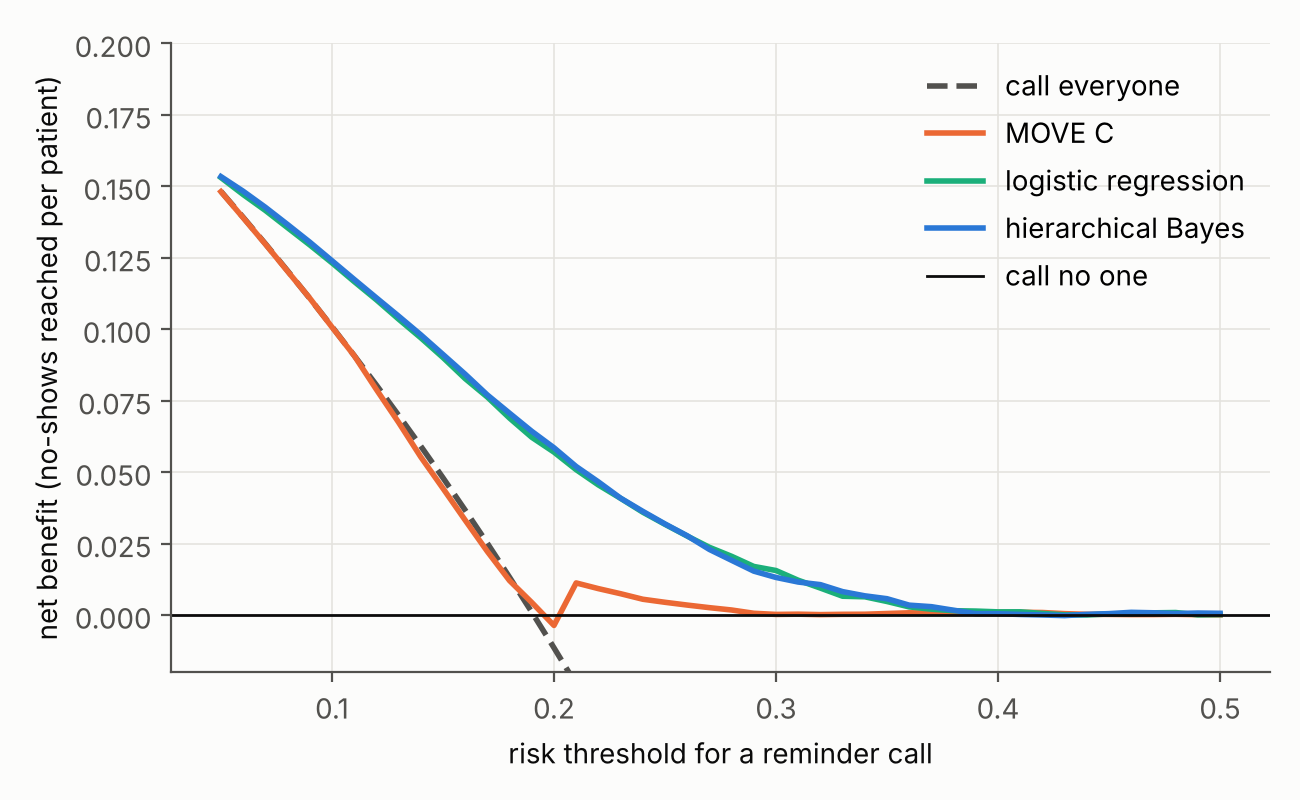
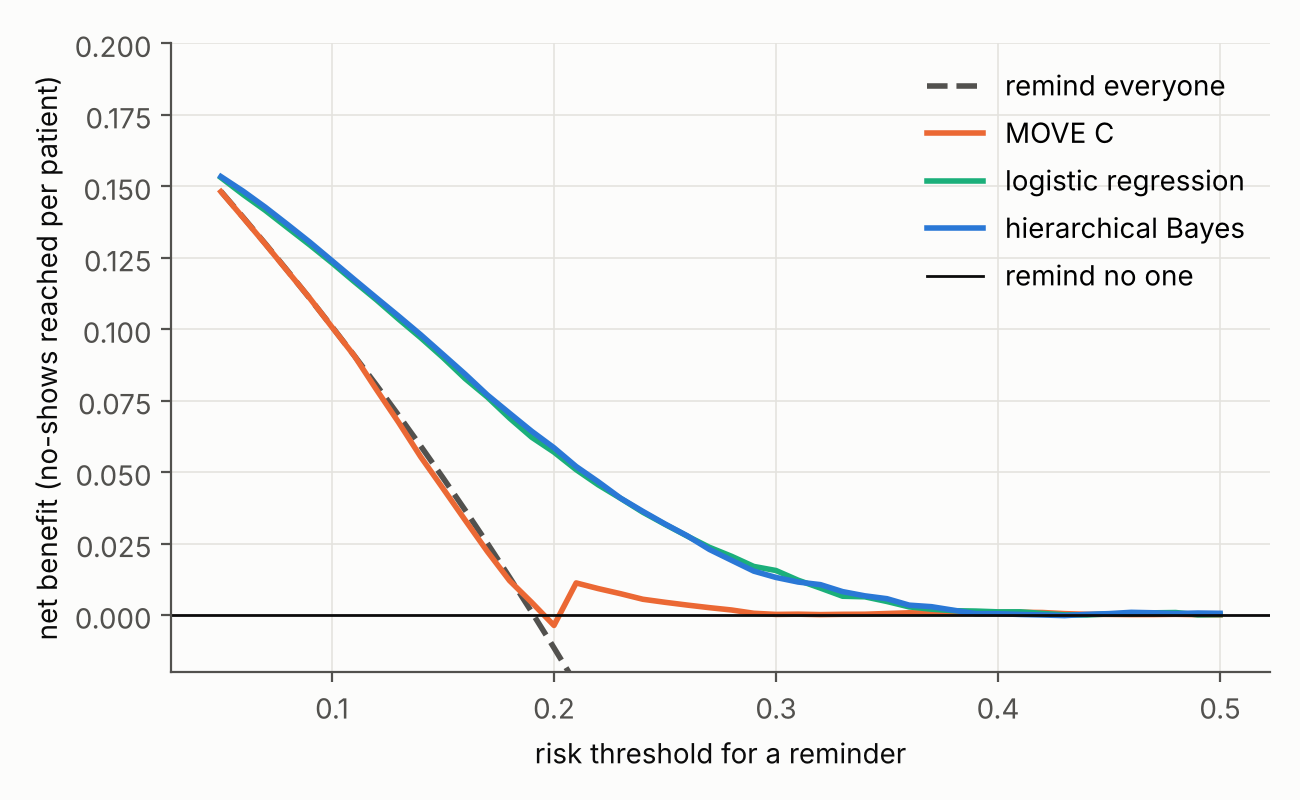
Measure the SMS effect by risk group, count prevented no-shows only where measured, report tied scores
Claude-Session: https://claude.ai/code/session_01WeGJ7eVmuCpNNj7fUXeVuH

Changed region(s): [[0.4, 0.9062, 0.7077, 0.9688], [0.7692, 0.3125, 0.9231, 0.375], [0.7692, 0.0938, 0.9538, 0.125]]

diff --git a/scripts/12_decision_curves.py b/scripts/12_decision_curves.py
@@ -27,16 +27,19 @@ def recalibrate(r, target):
 
 
 def net_benefit(r, y, threshold):
-    call = r >= threshold
-    return ((call & (y == 1)).sum() - (call & (y == 0)).sum() * threshold / (1 - threshold)) / len(y)
+    remind = r >= threshold
+    return ((remind & (y == 1)).sum() - (remind & (y == 0)).sum() * threshold / (1 - threshold)) / len(y)
+
+
+def remind_everyone(y, threshold):
+    return y.mean() - (1 - y.mean()) * threshold / (1 - threshold)
 
 
 rows = []
 y = no_show[late]
 for threshold in THRESHOLDS:
-    rows.append({"threshold": threshold, "strategy": "call everyone", "version": "",
-                 "net benefit": y.mean() - (1 - y.mean()) * threshold / (1 - threshold)})
-    rows.append({"threshold": threshold, "strategy": "call no one", "version": "", "net benefit": 0.0})
+    rows.append({"threshold": threshold, "strategy": "remind everyone", "version": "", "net benefit": remind_everyone(y, threshold)})
+    rows.append({"threshold": threshold, "strategy": "remind no one", "version": "", "net benefit": 0.0})
     for model in MODELS:
         fixed = recalibrate(risk[model].values[late], no_show[early].mean())
         for version, r in [("as fitted", risk[model].values[late]), ("level updated", fixed)]:
@@ -44,8 +47,7 @@ for threshold in THRESHOLDS:
 curves = pd.DataFrame(rows)
 curves.to_csv(tables / "decision_curves.csv", index=False)
 # patient bootstrap for the Bayesian model against the others, at a few thresholds
-lt = t[late].reset_index(drop=True)
-rows_of = lt.groupby("patient_id").indices
+rows_of = t[late].reset_index(drop=True).groupby("patient_id").indices
 patients = np.array(list(rows_of))
 rng = np.random.default_rng(0)
 r_late = {m: risk[m].values[late] for m in MODELS}
@@ -54,33 +56,40 @@ for _ in range(200):
     idx = np.concatenate([rows_of[p] for p in rng.choice(patients, len(patients))])
     for threshold in [0.1, 0.2, 0.3]:
         bayes = net_benefit(r_late["hierarchical Bayes, online"][idx], y[idx], threshold)
-        everyone = y[idx].mean() - (1 - y[idx].mean()) * threshold / (1 - threshold)
         others = {m: net_benefit(r_late[m][idx], y[idx], threshold) for m in MODELS[:3]}
-        others["call everyone"] = everyone
+        others["remind everyone"] = remind_everyone(y[idx], threshold)
         diffs += [{"threshold": threshold, "against": k, "difference": bayes - v} for k, v in others.items()]
 diffs = pd.DataFrame(diffs).groupby(["threshold", "against"]).difference.quantile([0.025, 0.5, 0.975]).unstack()
 diffs.columns = ["low", "median", "high"]
 diffs.to_csv(tables / "decision_curve_differences.csv")
-# no-shows prevented per 100 calls when calling the riskiest share of patients, if a reminder lowers each
-# patient's no-show risk by the same proportion as an SMS did in the outage analysis
-effect = pd.read_csv(tables / "sms_effect.csv").set_index("estimate").loc["effect of one SMS (outage design)", "value"]
-check = pd.read_csv(tables / "sms_outage_check.csv")
-without = check.query("eligible == 1 and outage == 1").no_show.iloc[0]
-rr = (without + effect) / without
+# no-shows prevented per 100 SMS-like reminders, only for bookings 3+ days ahead where the effect was measured.
+# Three versions of the effect: the same for everyone, proportional to baseline risk, and as measured per risk third
+by_risk = pd.read_csv(tables / "sms_effect_by_risk.csv").set_index("risk group")["absolute effect"]
+overall = pd.read_csv(tables / "sms_effect.csv").set_index("estimate").loc["effect of one SMS (outage design)", "value"]
+base = pd.read_parquet(root / "data/processed/baseline_risk.parquet")
+e = t[late].reset_index(drop=True).merge(base, on="appointment_id", how="left")
+eligible = ((e.lead_days >= 3) & e.baseline_risk.notna()).values
+e = e[eligible].reset_index(drop=True)
 rows = []
 for share in [0.1, 0.2, 0.3, 0.5, 1.0]:
     for model in MODELS + ["random"]:
-        r = np.random.default_rng(0).random(late.sum()) if model == "random" else risk[model].values[late]
-        called = np.argsort(-r)[:int(share * late.sum())]
-        rows.append({"share called": share, "model": model, "no-shows among called": y[called].mean(),
-                     "prevented per 100 calls": 100 * y[called].mean() * (1 - rr)})
+        r = np.random.default_rng(0).random(len(e)) if model == "random" else risk[model].values[late][eligible]
+        chosen = e.iloc[np.argsort(-r)[:int(share * len(e))]]
+        rows.append({"share reminded": share, "model": model, "no-shows among reminded": chosen.no_show.mean(),
+                     "same for everyone": -100 * overall,
+                     "proportional to risk": -100 * overall * chosen.baseline_risk.mean() / e.baseline_risk.mean(),
+                     "measured per risk third": -100 * chosen.risk_group.map(by_risk).mean()})
 prevented = pd.DataFrame(rows)
 prevented.to_csv(tables / "reminders_prevented.csv", index=False)
+# how coarse each score is: share of later visits whose exact score is shared with 50 or more other visits
+ties = pd.DataFrame([{"model": m, "share with a tied score": (pd.Series(r_late[m]).map(pd.Series(r_late[m]).value_counts()) > 50).mean()}
+                     for m in MODELS])
+ties.to_csv(tables / "score_ties.csv", index=False)
 show = curves[curves.threshold.isin([0.1, 0.2, 0.3, 0.4])].pivot_table(index=["strategy", "version"], columns="threshold",
                                                                        values="net benefit", sort=False)
 print(f"later test days: {late.sum()} visits, no-show rate {y.mean():.3f}; first test days rate {no_show[early].mean():.3f}")
 print(show.round(4).to_string())
-print("hierarchical Bayes minus each alternative (net benefit, 95% interval)")
 print(diffs.round(4).to_string())
-print(f"assumed risk ratio of a reminder {rr:.3f}")
-print(prevented.pivot_table(index="model", columns="share called", values="prevented per 100 calls", sort=False).round(2).to_string())
+print(f"eligible later visits: {len(e)}")
+print(prevented.round(2).to_string(index=False))
+print(ties.round(3).to_string(index=False))

diff --git a/scripts/10_sms_effect.py b/scripts/10_sms_effect.py
@@ -2,6 +2,10 @@ from pathlib import Path
 
 import numpy as np
 import pandas as pd
+from sklearn.linear_model import LogisticRegression
+from sklearn.model_selection import GroupKFold, cross_val_predict
+from sklearn.pipeline import make_pipeline
+from sklearn.preprocessing import StandardScaler
 
 from thesis.data.datasets import noshow_data
 from thesis.models.causal import balance, diff_in_diff, e_value, effects, propensity
@@ -68,6 +72,38 @@ ps = propensity(person.loc[normal], t)
 w = np.where(t == 1, 1 / ps, 1 / (1 - ps))
 bal = pd.DataFrame({"before": balance(person.loc[normal], t), "after weighting": balance(person.loc[normal], t, w)})
 bal.to_csv(tables / "sms_balance.csv")
+# does the effect depend on the patient's risk? Risk here leaves SMS out and is cross-fitted by patient,
+# so no visit's own outcome decides its group
+model = make_pipeline(StandardScaler(), LogisticRegression(max_iter=3000))
+df["baseline_risk"] = cross_val_predict(model, covariates, df.no_show, groups=df.patient_id, cv=GroupKFold(2),
+                                        method="predict_proba")[:, 1]
+cuts = df.loc[df.eligible == 1, "baseline_risk"].quantile([1 / 3, 2 / 3]).values
+df["risk_group"] = pd.cut(df.baseline_risk, [-np.inf, *cuts, np.inf], labels=["low", "middle", "high"]).astype(str)
+df[["appointment_id", "baseline_risk", "risk_group"]].to_parquet(root / "data/processed/baseline_risk.parquet")
+
+
+def effect_by_risk(rows):
+    # outage design within one risk third of the eligible visits, against all never-eligible visits
+    d = df.loc[rows]
+    out = {}
+    for level in ["low", "middle", "high"]:
+        keep = d.index[(d.eligible == 0) | (d.risk_group == level)]
+        _, absolute = outage_effect(keep)
+        base = d.no_show[(d.eligible == 1) & (d.risk_group == level) & (d.outage == 1)].mean()
+        out[level] = (absolute, (base + absolute) / base)
+    return out
+
+
+point = effect_by_risk(everyone)
+boot = [effect_by_risk(np.concatenate([rows_of[p] for p in rng.choice(patients, len(patients))])) for _ in range(200)]
+by_risk = pd.DataFrame([{"risk group": level, "eligible visits": ((df.eligible == 1) & (df.risk_group == level)).sum(),
+                         "no-show without SMS": df.no_show[(df.eligible == 1) & (df.risk_group == level) & (df.outage == 1)].mean(),
+                         "absolute effect": point[level][0], "absolute low": np.percentile([b[level][0] for b in boot], 2.5),
+                         "absolute high": np.percentile([b[level][0] for b in boot], 97.5), "risk ratio": point[level][1],
+                         "ratio low": np.percentile([b[level][1] for b in boot], 2.5),
+                         "ratio high": np.percentile([b[level][1] for b in boot], 97.5)} for level in point])
+by_risk.to_csv(tables / "sms_effect_by_risk.csv", index=False)
 print(check.round(4).to_string(index=False))
 print(out.round(4).to_string(index=False))
+print(by_risk.round(3).to_string(index=False))
 print(f"propensity range on normal days {ps.min():.3f} to {ps.max():.3f}, largest imbalance", bal.abs().max().round(3).to_dict())

diff --git a/scripts/09_figures.py b/scripts/09_figures.py
@@ -110,15 +110,15 @@ ax.set(xticks=mat["available users"].unique(), xlabel="users available per day (
        ylabel="share of plans that happen")
 ax.legend(loc="lower right")
 save(fig, "matching")
-# decision curves for reminder calls, on the later test days with the level updated
+# decision curves for reminders, on the later test days with the level updated
 dc = pd.read_csv(tables / "decision_curves.csv")
 fig, ax = plt.subplots(figsize=(6.5, 4))
-for strategy, color, style in [("call everyone", MUTED, "--"), ("MOVE C", ORANGE, "-"), ("logistic regression", AQUA, "-"),
+for strategy, color, style in [("remind everyone", MUTED, "--"), ("MOVE C", ORANGE, "-"), ("logistic regression", AQUA, "-"),
                                ("hierarchical Bayes, online", BLUE, "-")]:
     d = dc[(dc.strategy == strategy) & (dc.version.fillna("").isin(["", "level updated"]))]
     ax.plot(d.threshold, d["net benefit"], color=color, linestyle=style, label=strategy.replace(", online", ""))
-ax.axhline(0, color=INK, linewidth=1, label="call no one")
-ax.set(xlabel="risk threshold for a reminder call", ylabel="net benefit (no-shows reached per patient)", ylim=(-0.02, 0.2))
+ax.axhline(0, color=INK, linewidth=1, label="remind no one")
+ax.set(xlabel="risk threshold for a reminder", ylabel="net benefit (no-shows reached per patient)", ylim=(-0.02, 0.2))
 ax.legend(loc="upper right")
 save(fig, "decision_curves")
 # and one table: what MOVE's labels mean in real show rates (rating part at its prior, as there are no ratings)
